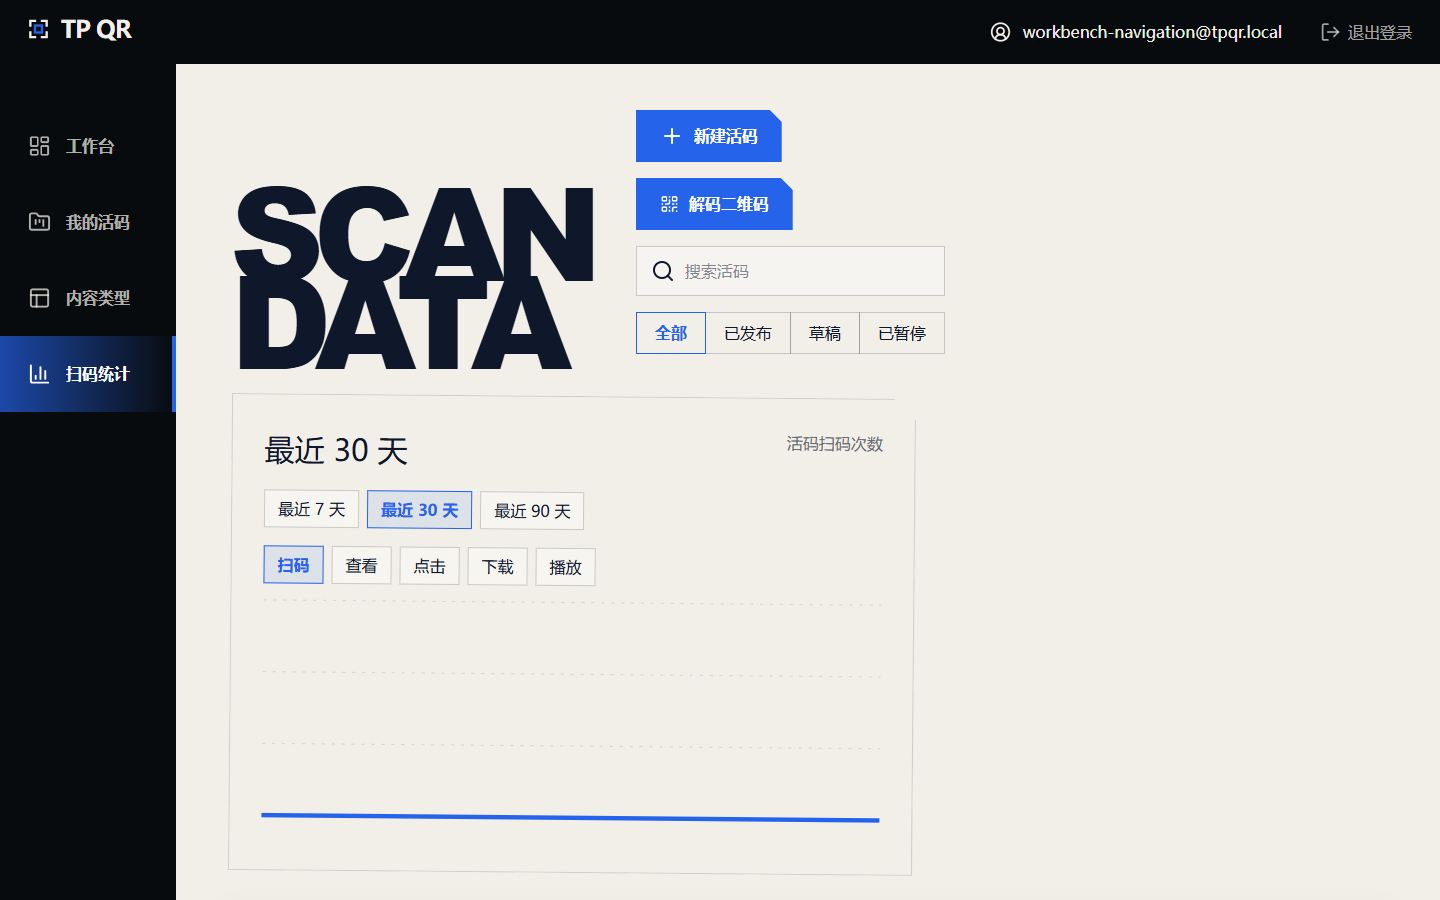
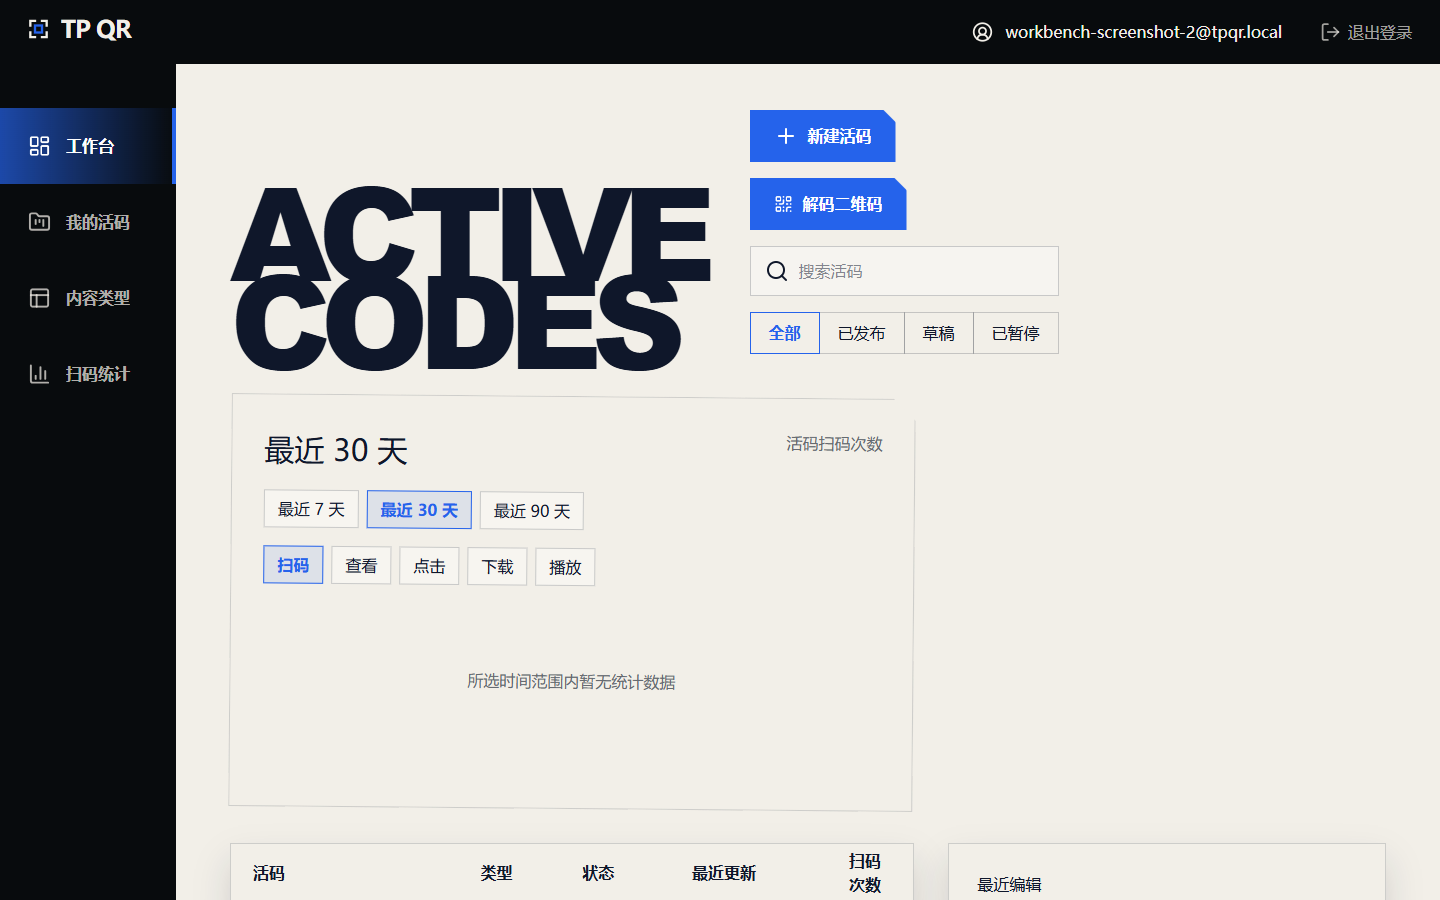
fix: improve workbench and editor UX (#33)
Improve dashboard empty states, mobile code cards, create dialog, and QR preview usability. Closes #25.

diff --git a/apps/web/src/features/dashboard/components/dashboard-view.tsx b/apps/web/src/features/dashboard/components/dashboard-view.tsx
@@ -1,4 +1,5 @@
 import { useEffect, useMemo, useState } from "react";
+import * as Dialog from "@radix-ui/react-dialog";
 import { ArrowRight, FileAudio, FileImage, FileText, FileVideo, Globe2, Plus, QrCode, Search, UserRound } from "lucide-react";
 import { Link, useNavigate, useSearchParams } from "react-router-dom";
 import { AppShell } from "@client/components/layout/app-shell";
@@ -90,11 +91,13 @@ export function DashboardView() {
 
   const metricTotals = useMemo(() => Object.fromEntries((analytics?.byCode ?? []).map((code) => [code.codeId, code[metric]])), [analytics, metric]);
   const trend = useMemo(() => (analytics?.trend ?? []).map((point: AnalyticsPoint) => point[metric]), [analytics, metric]);
+  const hasTrendData = trend.some((value) => value > 0);
 
   const visibleCodes = useMemo(() => codes.filter((code) => {
     const status = codeStatusLabel(code);
     return (filter === "全部" || filter === status) && code.title.toLowerCase().includes(search.trim().toLowerCase());
   }), [codes, filter, search]);
+  const hasSearchOrFilter = filter !== "全部" || search.trim().length > 0;
 
   async function createCode() {
     try {
@@ -142,7 +145,7 @@ export function DashboardView() {
         <div className="dashboard-trend__metrics" role="tablist" aria-label="统计指标">
           {metricOptions.map((item) => <button key={item.key} type="button" role="tab" aria-selected={metric === item.key} onClick={() => setMetric(item.key)}>{item.label}</button>)}
         </div>
-        <svg viewBox="0 0 560 230" role="img" aria-label={`最近 ${days} 天${metricOptions.find((item) => item.key === metric)?.label ?? "扫码"}趋势`}>{[0, 1, 2, 3].map((lineIndex) => <line key={lineIndex} x1="0" x2="560" y1={lineIndex * 65 + 15} y2={lineIndex * 65 + 15} />)}<polyline points={trendPoints(trend)} /></svg>
+        {hasTrendData ? <svg viewBox="0 0 560 230" role="img" aria-label={`最近 ${days} 天${metricOptions.find((item) => item.key === metric)?.label ?? "扫码"}趋势`}>{[0, 1, 2, 3].map((lineIndex) => <line key={lineIndex} x1="0" x2="560" y1={lineIndex * 65 + 15} y2={lineIndex * 65 + 15} />)}<polyline points={trendPoints(trend)} /></svg> : <p className="dashboard-trend__empty" role="status">{analytics ? "所选时间范围内暂无统计数据" : "正在加载统计数据…"}</p>}
       </article> : null}
 
       {view === "analytics" ? <article className="dashboard-analytics paper-panel" aria-label="扫码统计明细"><header><h2>按活码统计</h2><span>最近 {days} 天{metricOptions.find((item) => item.key === metric)?.label}次数</span></header>{visibleCodes.map((code) => <div className="dashboard-analytics__row" key={code.id}><span>{code.title}</span><strong>{metricTotals[code.id] ?? 0}</strong><small>次{metricOptions.find((item) => item.key === metric)?.label}</small></div>)}{visibleCodes.length === 0 || visibleCodes.every((code) => (metricTotals[code.id] ?? 0) === 0) ? <p className="dashboard-table__empty">暂无统计数据</p> : null}</article> : null}
@@ -151,14 +154,39 @@ export function DashboardView() {
         <div className="dashboard-table__row dashboard-table__head"><span>活码</span><span>类型</span><span>状态</span><span>最近更新</span><span>{metricOptions.find((item) => item.key === metric)?.label ?? "扫码"}次数</span></div>
         {visibleCodes.map((code) => {
           const status = codeStatusLabel(code);
-          return <Link className="dashboard-table__row" to={`/app/codes/${code.id}/qr`} key={code.id}><span><QrSpecimen data={`${window.location.origin}/s/${code.slug}`} size={72} />{code.title}</span><span>{typeLabels[code.contentType] ?? "活码"}</span><span><i className={`project-status project-status--${status}`}>{status}</i></span><time>{new Date(code.updatedAt).toLocaleString("zh-CN")}</time><strong>{metricTotals[code.id] ?? 0}</strong></Link>;
+          return <Link className="dashboard-table__row" to={`/app/codes/${code.id}/qr`} key={code.id}><span><QrSpecimen data={`${window.location.origin}/s/${code.slug}`} size={72} />{code.title}</span><span data-label="类型">{typeLabels[code.contentType] ?? "活码"}</span><span data-label="状态"><i className={`project-status project-status--${status}`}>{status}</i></span><time data-label="最近更新">{new Date(code.updatedAt).toLocaleString("zh-CN")}</time><strong data-label={`${metricOptions.find((item) => item.key === metric)?.label ?? "扫码"}次数`}>{metricTotals[code.id] ?? 0}</strong></Link>;
         })}
-        {visibleCodes.length === 0 ? <p className="dashboard-table__empty">暂无符合条件的活码</p> : null}
+        {visibleCodes.length === 0 ? <div className="dashboard-table__empty">
+          {codes.length === 0 && !hasSearchOrFilter ? <>
+            <QrCode aria-hidden="true" />
+            <strong>还没有活码</strong>
+            <p>创建第一张活码后，可在这里编辑内容、发布并查看访问情况。</p>
+            <button type="button" onClick={() => setCreating(true)}>创建第一张活码</button>
+          </> : <>
+            <strong>暂无符合条件的活码</strong>
+            <button type="button" onClick={() => { setFilter("全部"); setSearch(""); }}>清除搜索和筛选</button>
+          </>}
+        </div> : null}
       </div> : null}
 
-      {view !== "types" ? <aside className="recent-submissions paper-panel"><h2>最近编辑</h2>{codes.slice(0, 5).map((code, index) => <Link to={`/app/codes/${code.id}/qr`} key={code.id}><span>{String(index + 1).padStart(2, "0")}</span><strong>{code.title}</strong><small>{new Date(code.updatedAt).toLocaleString("zh-CN")}</small><ArrowRight /></Link>)}</aside> : null}
+      {view !== "types" ? <aside className="recent-submissions paper-panel"><h2>最近编辑</h2>{codes.slice(0, 5).map((code, index) => <Link to={`/app/codes/${code.id}/qr`} key={code.id}><span>{String(index + 1).padStart(2, "0")}</span><strong>{code.title}</strong><small>{new Date(code.updatedAt).toLocaleString("zh-CN")}</small><ArrowRight /></Link>)}{codes.length === 0 ? <p className="recent-submissions__empty">创建活码后，最近编辑的内容会显示在这里。</p> : null}</aside> : null}
 
-      {creating ? <div className="dashboard-create paper-panel" role="dialog" aria-modal="true" aria-labelledby="create-code-title"><h2 id="create-code-title">新建活码</h2>{createNotice ? <p role="alert">{createNotice}</p> : null}<label>活码名称<input value={newName} onChange={(event) => setNewName(event.target.value)} autoFocus /></label><label>内容类型<select value={newType} onChange={(event) => setNewType(event.target.value as CodeType)}>{contentTypeOptions.map(({ type, label }) => <option value={type} key={type}>{label}</option>)}</select></label><p className="dashboard-create__hint">图片、视频、音频和文件可在下一步上传，草稿不会写入虚假资源。</p><div><button type="button" onClick={() => setCreating(false)}>取消</button><button type="button" onClick={() => void createCode()}>创建并编辑</button></div></div> : null}
+      <Dialog.Root open={creating} onOpenChange={setCreating}>
+        <Dialog.Portal>
+          <Dialog.Overlay className="dashboard-create-overlay" />
+          <Dialog.Content className="dashboard-create">
+            <Dialog.Title className="dashboard-create__title">新建活码</Dialog.Title>
+            <Dialog.Description className="dashboard-create__hint">图片、视频、音频和文件可在下一步上传，草稿不会写入虚假资源。</Dialog.Description>
+            {createNotice ? <p className="dashboard-create__error" role="alert">{createNotice}</p> : null}
+            <label>活码名称<input value={newName} onChange={(event) => setNewName(event.target.value)} autoFocus /></label>
+            <label>内容类型<select value={newType} onChange={(event) => setNewType(event.target.value as CodeType)}>{contentTypeOptions.map(({ type, label }) => <option value={type} key={type}>{label}</option>)}</select></label>
+            <div className="dashboard-create__actions">
+              <Dialog.Close asChild><button type="button">取消</button></Dialog.Close>
+              <button type="button" onClick={() => void createCode()}>创建并编辑</button>
+            </div>
+          </Dialog.Content>
+        </Dialog.Portal>
+      </Dialog.Root>
     </section>
   </AppShell>;
 }

diff --git a/apps/web/src/features/dashboard/dashboard.css b/apps/web/src/features/dashboard/dashboard.css
@@ -29,7 +29,11 @@
 .project-status { padding: 7px 11px; border-radius: 8px; background: rgba(20,184,166,.13); color: #078e81; font-style: normal; font-weight: 800; }
 .project-status--草稿 { background: rgba(101,106,112,.12); color: var(--muted); }
 .project-status--已暂停 { background: rgba(239,68,68,.12); color: var(--red); }
-.dashboard-table__empty { padding: 40px; text-align: center; }
+.dashboard-table__empty { display: grid; min-height: 240px; align-content: center; justify-items: center; gap: 12px; padding: 32px; text-align: center; }
+.dashboard-table__empty > svg { width: 32px; height: 32px; color: var(--cobalt); }
+.dashboard-table__empty > strong { color: var(--ink); font-size: 20px; }
+.dashboard-table__empty > p { max-width: 42ch; margin: 0; color: var(--muted); line-height: 1.6; }
+.dashboard-table__empty button { min-height: 44px; padding: 0 18px; border: 0; background: var(--cobalt); color: white; font-weight: 800; cursor: pointer; }
 .recent-submissions { grid-column: 2; padding: 28px; align-self: start; }
 .recent-submissions h2 { margin: 0 0 22px; }
 .recent-submissions a { display: grid; min-height: 76px; grid-template-columns: 34px 1fr auto; align-items: center; border-bottom: 1px dashed var(--hairline); color: var(--ink); text-decoration: none; }
@@ -37,6 +41,7 @@
 .recent-submissions a strong { display: block; }
 .recent-submissions a small { grid-column: 2; color: var(--muted); }
 .recent-submissions a svg { grid-column: 3; grid-row: 1 / 3; }
+.recent-submissions__empty { margin: 0; color: var(--muted); line-height: 1.6; }
 @media (hover: hover) {
   .dashboard-table a.dashboard-table__row:hover,
   .recent-submissions a:hover { transform: translateY(-2px); }
@@ -50,20 +55,27 @@
   .dashboard-table a.dashboard-table__row:nth-of-type(4), .recent-submissions a:nth-of-type(4) { animation-delay: 180ms; }
 }
 @keyframes dashboard-row-enter { from { opacity: 0; transform: translateY(12px); } to { opacity: 1; transform: translateY(0); } }
-.dashboard-create { position: fixed; top: 18%; left: 50%; z-index: 40; display: grid; width: min(90vw, 480px); gap: 16px; padding: 28px; transform: translateX(-50%); }
-.dashboard-create h2 { margin: 0; }.dashboard-create label { display: grid; gap: 8px; font-weight: 700; }.dashboard-create input, .dashboard-create select { min-height: 44px; padding: 0 12px; border: 1px solid var(--hairline); background: transparent; }.dashboard-create > div { display: flex; justify-content: flex-end; gap: 10px; }.dashboard-create button { min-height: 42px; padding: 0 16px; border: 1px solid var(--hairline); background: transparent; cursor: pointer; }.dashboard-create button:last-child { border-color: var(--cobalt); background: var(--cobalt); color: white; }
+.dashboard-trend__empty { display: grid; min-height: 190px; place-items: center; margin: 0; color: var(--muted); text-align: center; }
+.dashboard-create-overlay { position: fixed; inset: 0; z-index: 90; background: rgba(8, 11, 13, .78); animation: dashboard-create-fade-in 160ms ease-out; }
+.dashboard-create { position: fixed; top: 50%; left: 50%; z-index: 91; display: grid; width: min(480px, calc(100vw - 32px)); max-height: calc(100dvh - 32px); gap: 16px; overflow-y: auto; padding: clamp(24px, 5vw, 36px); transform: translate(-50%, -50%); border: 1px solid rgba(15, 23, 42, .18); background: var(--paper); color: var(--ink); box-shadow: 12px 14px 0 var(--cobalt), 0 24px 64px rgba(0, 0, 0, .42); animation: dashboard-create-settle 260ms cubic-bezier(.2, .8, .2, 1); }
+.dashboard-create__title { margin: 0; font-family: var(--font-display); font-size: clamp(28px, 6vw, 38px); letter-spacing: -.04em; }
+.dashboard-create__hint { margin: 0; color: var(--muted); font-size: 13px; line-height: 1.5; }
+.dashboard-create__error { margin: 0; color: #b42318; }
+.dashboard-create label { display: grid; gap: 8px; font-weight: 700; }
+.dashboard-create input, .dashboard-create select { min-height: 44px; padding: 0 12px; border: 1px solid var(--hairline); background: rgba(255, 255, 255, .45); color: var(--ink); }
+.dashboard-create__actions { display: flex; flex-wrap: wrap; justify-content: flex-end; gap: 10px; margin-top: 8px; }
+.dashboard-create__actions button { min-height: 44px; padding: 0 16px; border: 1px solid var(--hairline); background: transparent; color: var(--ink); font-weight: 700; cursor: pointer; }
+.dashboard-create__actions button:last-child { border-color: var(--cobalt); background: var(--cobalt); color: white; }
+@keyframes dashboard-create-fade-in { from { opacity: 0; } to { opacity: 1; } }
+@keyframes dashboard-create-settle { from { opacity: 0; transform: translate(-50%, calc(-50% + 12px)); } to { opacity: 1; transform: translate(-50%, -50%); } }
 @media (max-width: 1200px) { .dashboard-view { grid-template-columns: 1fr; } .dashboard-trend, .recent-submissions { grid-column: 1; } .dashboard-view__heading { align-items: start; flex-direction: column; } }
-@media (max-width: 700px) { .dashboard-view { padding: 28px 16px; } .dashboard-view__heading h1 { font-size: 86px; } .dashboard-table { overflow-x: auto; } .dashboard-table__row { min-width: 760px; } }
-
 .dashboard-decoder-link { display: inline-flex; min-height: 52px; align-items: center; gap: 10px; padding: 0 20px; border: 1px solid var(--cobalt); color: var(--cobalt); font-weight: 800; text-decoration: none; }
 .dashboard-decoder-link svg { width: 19px; }
-.dashboard-create::backdrop { background: rgba(8, 11, 13, .58); }
-.dashboard-create { border: 1px solid var(--hairline); }
 .project-status--已发布 { background: rgba(20,184,166,.13); color: #078e81; }
 .project-status--草稿 { background: rgba(101,106,112,.12); color: var(--muted); }
 .project-status--已暂停 { background: rgba(239,68,68,.12); color: var(--red); }
-.dashboard-create__hint { margin: 0; color: var(--muted); font-size: 13px; line-height: 1.5; }
 @media (max-width: 700px) {
+  .dashboard-view { padding: 28px 16px; }
   .dashboard-view__heading { gap: 24px; }
   .dashboard-view__heading h1 { font-size: clamp(66px, 20vw, 94px); }
   .dashboard-view__actions { width: 100%; }
@@ -73,8 +85,19 @@
   .dashboard-filters button { flex: 1 0 auto; min-width: 76px; }
   .dashboard-trend { padding: 20px 14px; }
   .dashboard-trend h2 { font-size: 22px; }
-  .dashboard-table { width: 100%; overflow-x: auto; }
-  .dashboard-table__row { min-width: 700px; }
+  .dashboard-table { width: 100%; overflow: visible; }
+  .dashboard-table__head { display: none; }
+  .dashboard-table a.dashboard-table__row { min-width: 0; min-height: 0; grid-template-columns: minmax(0, 1fr) auto; gap: 10px 14px; padding: 16px; }
+  .dashboard-table__row > * { min-width: 0; padding: 0; }
+  .dashboard-table__row > span:first-child { grid-column: 1 / -1; overflow-wrap: anywhere; }
+  .dashboard-table__row > span:not(:first-child), .dashboard-table__row > time, .dashboard-table__row > strong { display: flex; align-items: center; gap: 6px; font-size: 12px; }
+  .dashboard-table__row > *:not(:first-child)::before { flex: 0 0 auto; color: var(--muted); content: attr(data-label); font-size: 11px; font-weight: 600; }
+  .dashboard-table__empty { min-height: 220px; padding: 24px 18px; }
+  .dashboard-trend__empty { min-height: 150px; }
   .recent-submissions { padding: 20px 16px; }
-  .dashboard-create { top: 12%; width: calc(100vw - 28px); max-height: 76vh; overflow-y: auto; padding: 22px 18px; }
+  .dashboard-create { max-height: calc(100dvh - 28px); padding: 22px 18px; }
+}
+
+@media (prefers-reduced-motion: reduce) {
+  .dashboard-create-overlay, .dashboard-create { animation: none; }
 }

diff --git a/tests/browser/dashboard-experience.spec.ts b/tests/browser/dashboard-experience.spec.ts
@@ -1,0 +1,51 @@
+import { expect, test, type Page } from "@playwright/test";
+
+type Envelope<T> = { data?: T };
+
+async function authenticate(page: Page, email: string) {
+  const requested = await page.request.post("/api/auth/request-code", { data: { email } });
+  expect(requested.status()).toBe(200);
+  const requestBody = (await requested.json()) as Envelope<{ testCode?: string }>;
+  const verified = await page.request.post("/api/auth/verify-code", { data: { email, code: requestBody.data?.testCode ?? "123456" } });
+  expect(verified.status()).toBe(200);
+}
+
+test("dashboard explains empty data, creates a selected content type, and fits mobile code cards", async ({ page }, testInfo) => {
+  const mobile = testInfo.project.name === "mobile";
+  await page.setViewportSize(mobile ? { width: 390, height: 844 } : { width: 1440, height: 900 });
+  await authenticate(page, `dashboard-experience-${Date.now()}-${testInfo.project.name}@active.tpqr.test`);
+
+  await page.goto("/app");
+  await expect(page.locator(".dashboard-trend__empty")).toContainText("暂无统计数据");
+  await expect(page.getByRole("button", { name: "创建第一张活码" })).toBeVisible();
+
+  await page.getByRole("button", { name: "创建第一张活码" }).click();
+  const createDialog = page.getByRole("dialog", { name: "新建活码" });
+  await expect(createDialog).toBeVisible();
+  await page.keyboard.press("Escape");
+  await expect(createDialog).not.toBeVisible();
+
+  await page.getByRole("button", { name: "新建活码", exact: true }).click();
+  await page.getByLabel("活码名称").fill("工作台体验验收");
+  await page.getByLabel("内容类型").selectOption("url");
+  await page.getByRole("button", { name: "创建并编辑" }).click();
+  await expect(page).toHaveURL(/\/app\/codes\/[0-9a-f-]+\/qr$/);
+  await expect(page.getByRole("tab", { name: "网址" })).toHaveAttribute("aria-selected", "true");
+  await expect(page.getByRole("textbox", { name: "安全网址" })).toHaveValue("http://127.0.0.1:5173/");
+  await expect(page.locator(".tp-content-types [role=tab]")).toHaveCount(7);
+
+  await page.goto("/app?view=codes");
+  const card = page.locator(".dashboard-table__row").filter({ hasText: "工作台体验验收" });
+  await expect(card).toBeVisible();
+  if (mobile) {
+    await expect(page.locator(".dashboard-table__head")).toBeHidden();
+    await expect(card.locator('[data-label="类型"]')).toHaveAttribute("data-label", "类型");
+    for (const viewportSize of [{ width: 390, height: 844 }, { width: 375, height: 812 }]) {
+      await page.setViewportSize(viewportSize);
+      const sizes = await page.evaluate(() => ({ width: document.documentElement.clientWidth, rootWidth: document.querySelector("#root")?.scrollWidth ?? 0 }));
+      expect(sizes.rootWidth).toBeLessThanOrEqual(sizes.width + 1);
+    }
+  } else {
+    await expect(page.locator(".dashboard-table__head")).toBeVisible();
+  }
+});

diff --git a/tests/browser/qr-editor-layout.spec.ts b/tests/browser/qr-editor-layout.spec.ts
@@ -49,6 +49,7 @@ test.describe("QR editor workbench layout", () => {
     await page.getByRole("button", { name: "预览", exact: true }).click();
     await expect(page.getByRole("dialog", { name: "草稿预览" })).toBeVisible();
     await expect(page.getByRole("button", { name: "关闭预览" })).toBeVisible();
+    await expect(page.getByRole("button", { name: "复制文字" })).toHaveCSS("color", "rgb(15, 23, 42)");
     await page.keyboard.press("Escape");
     await expect(page.getByRole("dialog", { name: "草稿预览" })).toHaveCount(0);
 
@@ -72,8 +73,12 @@ test.describe("QR editor workbench layout", () => {
     await page.goto(`/app/codes/${code.id}/qr`);
     await expect(page.locator(".tp-qr-preview")).toBeVisible({ timeout: 20000 });
     await expect(page.locator(".tp-publish-panel__actions")).toBeVisible();
-    const viewport = await page.evaluate(() => ({ width: window.innerWidth, scrollWidth: document.documentElement.scrollWidth }));
-    expect(viewport.scrollWidth).toBeLessThanOrEqual(viewport.width);
+    for (const viewportSize of [{ width: 375, height: 812 }, { width: 390, height: 844 }]) {
+      await page.setViewportSize(viewportSize);
+      const viewport = await page.evaluate(() => ({ width: document.documentElement.clientWidth, scrollWidth: document.querySelector("#root")?.scrollWidth ?? 0, previewRight: document.querySelector(".tp-qr-preview")?.getBoundingClientRect().right ?? 0 }));
+      expect(viewport.scrollWidth).toBeLessThanOrEqual(viewport.width + 1);
+      expect(viewport.previewRight).toBeLessThanOrEqual(viewport.width + 1);
+    }
   });
 
   test("keeps initial load errors visible", async ({ page }, testInfo) => {

diff --git a/apps/web/src/features/qr-editor/qr-editor-overrides.css b/apps/web/src/features/qr-editor/qr-editor-overrides.css
@@ -390,6 +390,9 @@
 .tp-preview-modal .public-content-page { min-height: auto; padding: 0; background: transparent; }
 .tp-preview-modal .public-content-card { width: 100%; min-height: 0; box-shadow: none; clip-path: none; }
 .tp-preview-modal .public-content-card--image .public-image-only { height: auto; max-height: calc(100dvh - 150px); min-height: 180px; }
+.tp-preview-modal .public-content-card .button--secondary { border-color: var(--hairline); background: rgba(15, 23, 42, .04); color: var(--ink); }
+.tp-preview-modal .public-content-card .button--secondary:hover,
+.tp-preview-modal .public-content-card .button--secondary:focus-visible { border-color: var(--cobalt); background: rgba(37, 99, 235, .08); color: var(--ink); }
 
 @media (max-width: 1200px) and (min-width: 861px) {
   .tp-qr-editor { overflow: visible; }
@@ -472,4 +475,5 @@
 @media (max-width: 860px) {
   .tp-editor-side { grid-column: 1; grid-row: 4; display: grid; grid-template-columns: 1fr; gap: 14px; }
   .tp-editor-side .tp-style-panel, .tp-editor-side .tp-publish-panel { grid-column: auto; grid-row: auto; max-height: none; overflow: visible; }
+  .tp-qr-paper { width: min(100%, 360px); }
 }

diff --git a/README.md b/README.md
@@ -24,11 +24,13 @@ data, personal QR codes, and generated reports are never committed.
   linking. Google OAuth backend support is retained for later re-enabling, but
   its current UI entry is intentionally hidden.
 - An authenticated dashboard with separate overview, code list, content type,
-  and account analytics views. Code editor, versions, analytics, and settings
-  share direct navigation, and the decoder links back to the workbench or home.
-- Draft editing, preview, revision checks, immutable publishing, and QR style
-  controls. Unsaved style changes warn before leaving; publishing and code
-  deletion use in-app confirmation dialogs.
+  and account analytics views. New accounts see a clear empty state, code
+  details become readable cards on mobile, and the create dialog closes with
+  Escape. Editor, versions, analytics, settings, and decoder keep direct
+  navigation back to the workbench.
+- Draft editing, readable content previews, revision checks, immutable
+  publishing, and QR style controls. Unsaved style changes warn before leaving;
+  publishing and code deletion use in-app confirmation dialogs.
 - Browser-generated PNG, SVG, WEBP, and JPG QR downloads, including optional
   frame text in the exported image.
 - Private OSS media storage with MIME, file-signature, size, ownership, and
@@ -51,10 +53,15 @@ login → workbench (overview/codes/types/analytics) → create or edit a code
 ## Workbench navigation
 
 The workbench keeps the selected dashboard view visible in its navigation.
-Each code links to its editor, versions, scan analytics, and settings, while the
+Each code links to its editor, versions, scan analytics, and settings. On small
+screens, code details remain visible without a sideways-scrolling table. The
 decoder provides links back to the workbench and home.
 
-[![TP QR workbench navigation](assets/open/workbench-navigation.png)](assets/open/workbench-navigation.png)
+[![TP QR desktop workbench](assets/open/workbench-navigation.png)](assets/open/workbench-navigation.png)
+
+[![TP QR mobile code list](assets/open/workbench-mobile-codes.png)](assets/open/workbench-mobile-codes.png)
+
+[Editor preview](assets/open/workbench-editor.png) · [Published public content](assets/open/public-content-text.png)
 
 ```text
 editor ↔ versions / scan analytics / settings → decoder → workbench

diff --git a/assets/open/README.md b/assets/open/README.md
@@ -3,3 +3,9 @@
 `qr-workbench-calibration.png` is an original, text-free calibration backdrop generated for TP QR with OpenAI ImageGen. It contains no third-party logos, personal data, or QR payloads and is used only as a low-contrast workbench texture.
 
 The application remains fully functional without this decorative asset; the QR preview and exports are rendered from code.
+
+`homepage.png`, `workbench-navigation.png`, `workbench-mobile-codes.png`,
+`workbench-editor.png`, and `public-content-text.png` are browser captures of
+the public homepage and authenticated product using fictional local demo data.
+They do not contain production accounts or personal content. The demo QR code
+points only to the local application.
